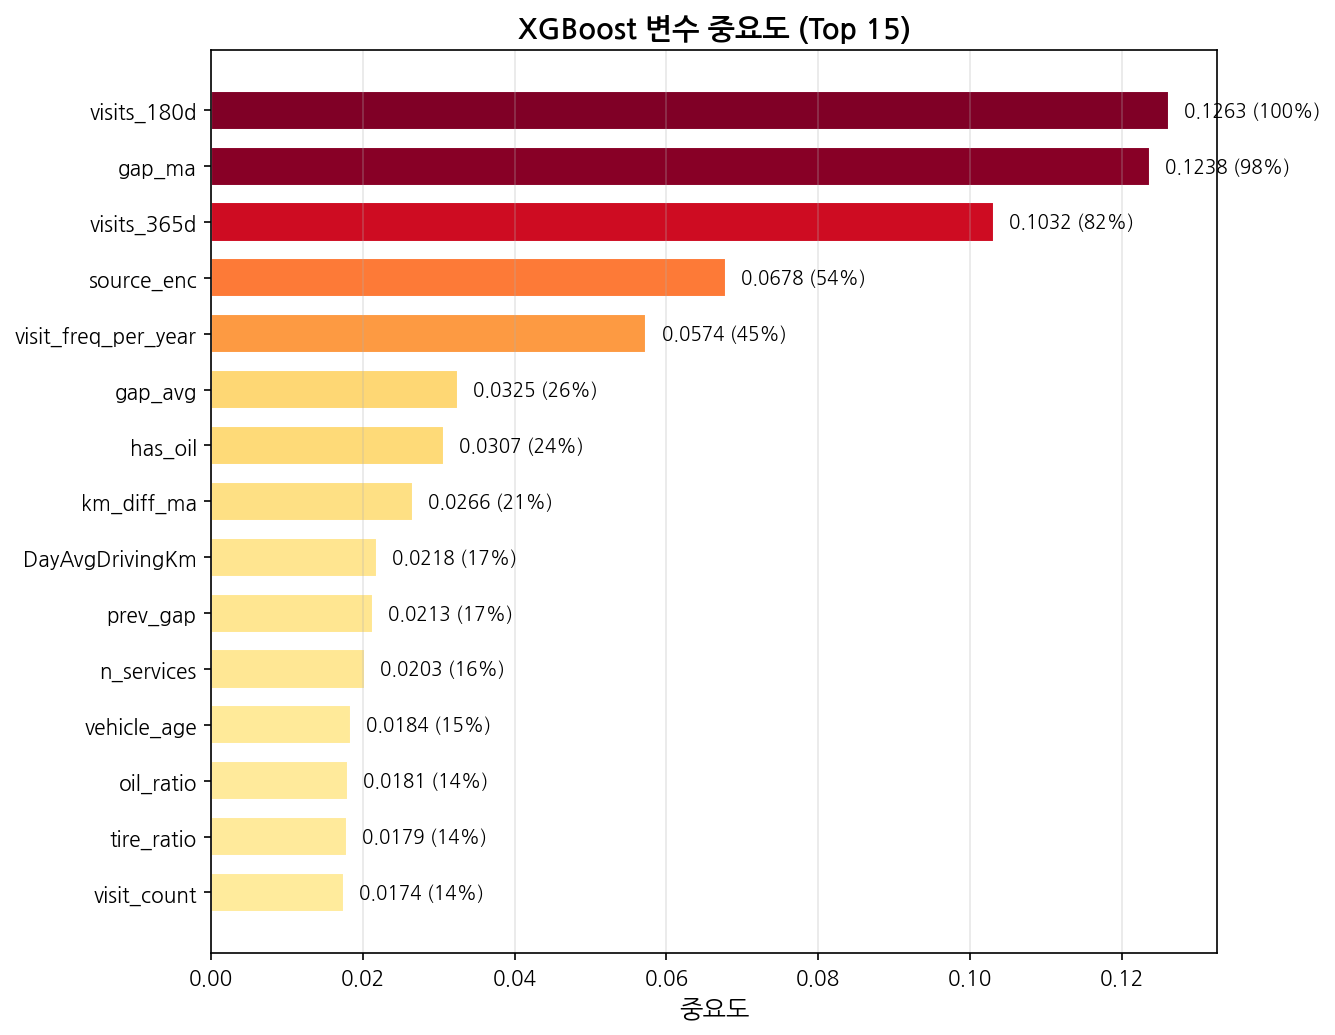
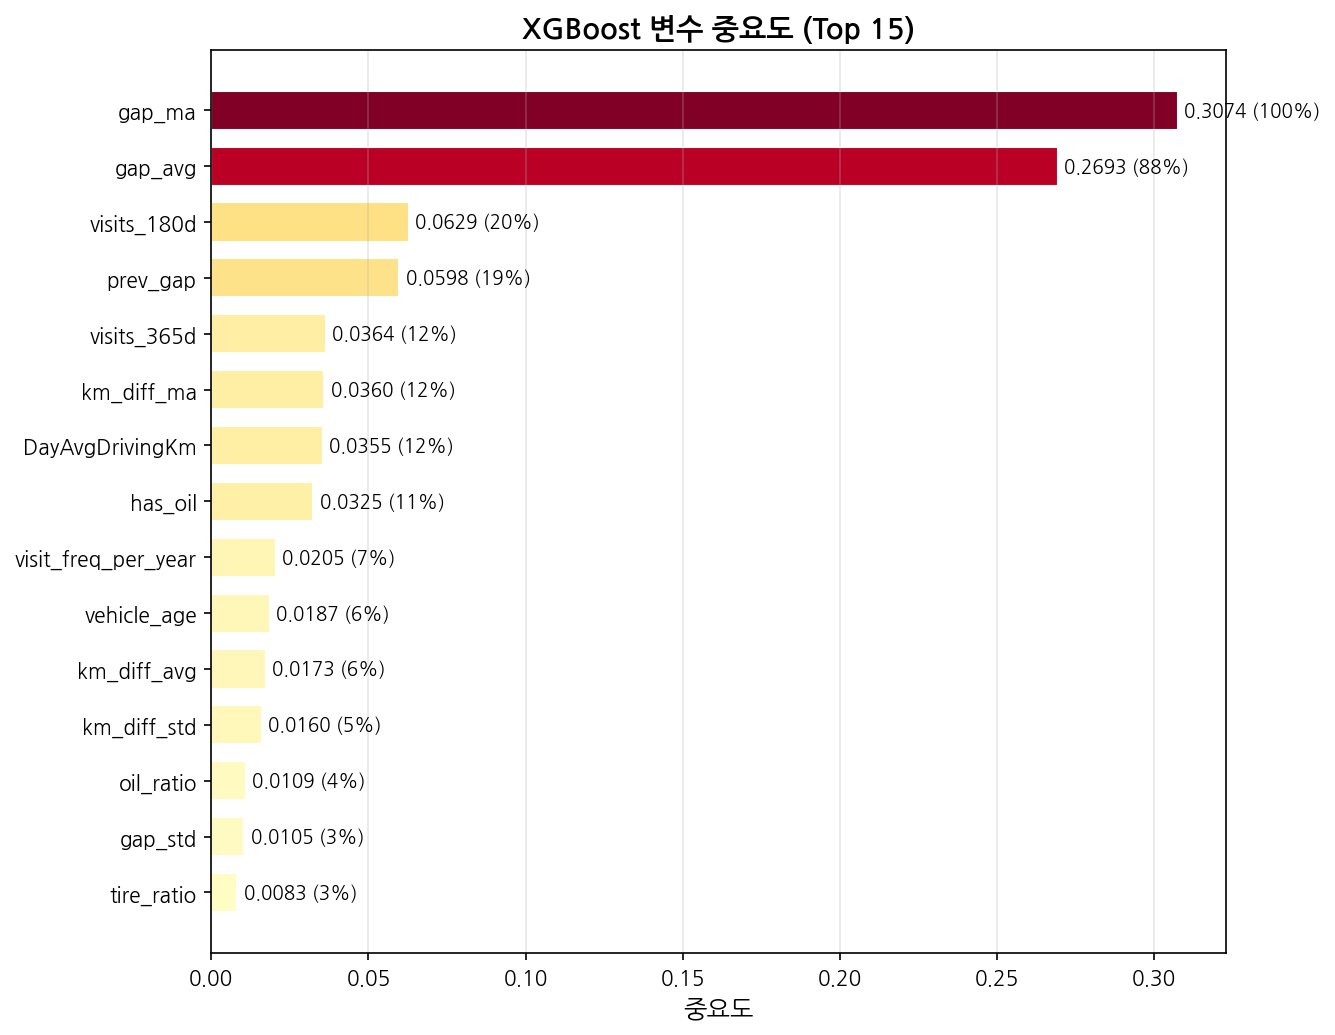
Level 1 예측 차트와 필터 기준 동기화
Ultraworked with [Sisyphus](https://github.com/code-yeongyu/oh-my-openagent)

diff --git a/scripts/00_report_charts.py b/scripts/00_report_charts.py
@@ -119,8 +119,10 @@ print('→ model_comparison.png')
 # ============================================================
 # Chart 3: Predicted vs Actual
 # ============================================================
-import xgboost as xgb
+from sklearn.ensemble import GradientBoostingRegressor
 from sklearn.model_selection import train_test_split
+
+level1_df = df[(df['days_until_next'] <= 365) & (df['visit_count'] > 1)].copy()
 
 feature_cols = [
     'prev_gap', 'gap_avg', 'gap_std', 'gap_ma',
@@ -135,7 +137,7 @@ feature_cols = [
     'oil_ratio', 'brake_ratio', 'tire_ratio', 'source_enc'
 ]
 
-X = df[feature_cols].copy()
+X = level1_df[feature_cols].copy()
 for c in X.columns:
     if X[c].dtype in ['float64', 'int64']:
         X[c] = X[c].fillna(X[c].median())
@@ -143,11 +145,11 @@ X = X.replace([np.inf, -np.inf], np.nan)
 for c in X.columns:
     if X[c].dtype in ['float64', 'int64']:
         X[c] = X[c].fillna(X[c].median())
-y = df['days_until_next'].values
+y = level1_df['days_until_next'].values
 
 X_tr, X_te, y_tr, y_te = train_test_split(X, y, test_size=0.2, random_state=42)
 
-model = xgb.XGBRegressor(n_estimators=200, max_depth=6, random_state=42, n_jobs=-1)
+model = GradientBoostingRegressor(n_estimators=200, max_depth=4, random_state=42)
 model.fit(X_tr, y_tr)
 y_pred = model.predict(X_te)
 
@@ -174,9 +176,9 @@ ax.fill_between(lims, [l-30 for l in lims], [l+30 for l in lims], alpha=0.08, co
 
 ax.set_xlabel('실제 방문 간격 (일)', fontsize=12)
 ax.set_ylabel('예측 방문 간격 (일)', fontsize=12)
-ax.set_title(f'Level 1 XGBoost 예측값 vs 실제값 (R²={r2_val:.3f}, RMSE={rmse_val:.1f}일)', fontsize=13, fontweight='bold')
-ax.set_xlim(0, 400)
-ax.set_ylim(0, 400)
+ax.set_title('Level 1 Gradient Boosting 예측값 vs 실제값', fontsize=13, fontweight='bold')
+ax.set_xlim(0, 365)
+ax.set_ylim(0, 365)
 ax.legend(fontsize=9)
 ax.grid(True, alpha=0.2)
 
@@ -184,7 +186,7 @@ plt.colorbar(sc, ax=ax, label='밀도')
 plt.tight_layout()
 plt.savefig('/home/ryzen395/datamining/pred_vs_actual.png', dpi=150, bbox_inches='tight')
 plt.close()
-print(f'→ pred_vs_actual.png (R²={r2_val:.3f}, RMSE={rmse_val:.1f})')
+print(f'→ pred_vs_actual.png [Gradient Boosting] (n={len(level1_df)}, R²={r2_val:.3f}, RMSE={rmse_val:.1f})')
 
 # ============================================================
 # Chart 4: Feature Importance
